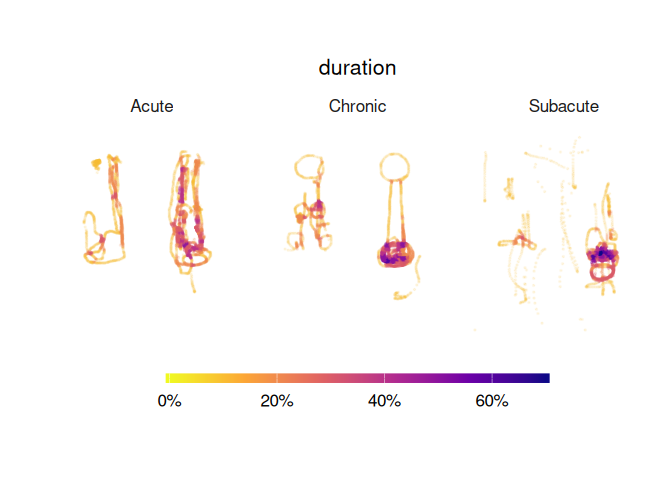
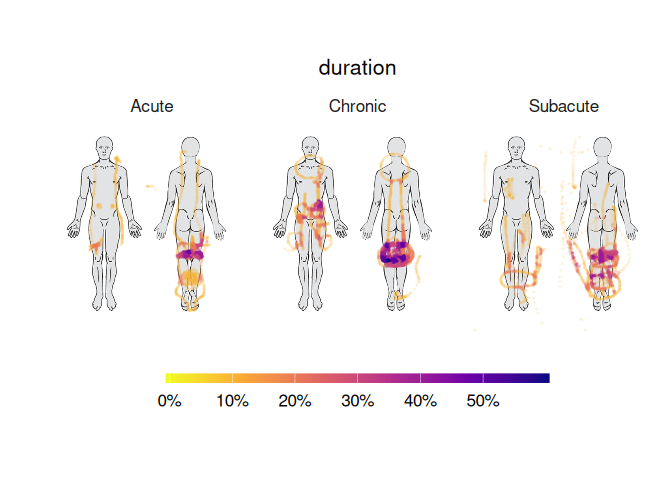
build README.Rmd 3

diff --git a/README.md b/README.md
@@ -122,6 +122,23 @@ pdr_example_tibble |>
 
 <img src="man/figures/README-plot-drawing-1.png" alt="" width="100%" />
 
+### Adding bakground image
+
+Plots of individual drawings and heatmaps are more interpretable when
+they include the background image that used during datacollection.
+
+``` r
+background <- png::readPNG("inst/extdata/mird_body_background.png")
+
+pdr_example_tibble |>
+  head(1) |>
+  pdr_plot_drawing(
+    background_image = background
+  )
+```
+
+<img src="man/figures/README-unnamed-chunk-3-1.png" alt="" width="100%" />
+
 ### Heatmaps across groups
 
 `pdr_plot_heatmap()` aggregates many drawings into density heatmaps,
@@ -130,7 +147,9 @@ by symptom duration:
 
 ``` r
 pdr_example_tibble |>
-  pdr_plot_heatmap(variables = "duration")
+  pdr_plot_heatmap(
+    variables = "duration", 
+    background_image = background)
 ```
 
 <img src="man/figures/README-plot-heatmap-1.png" alt="" width="100%" />
